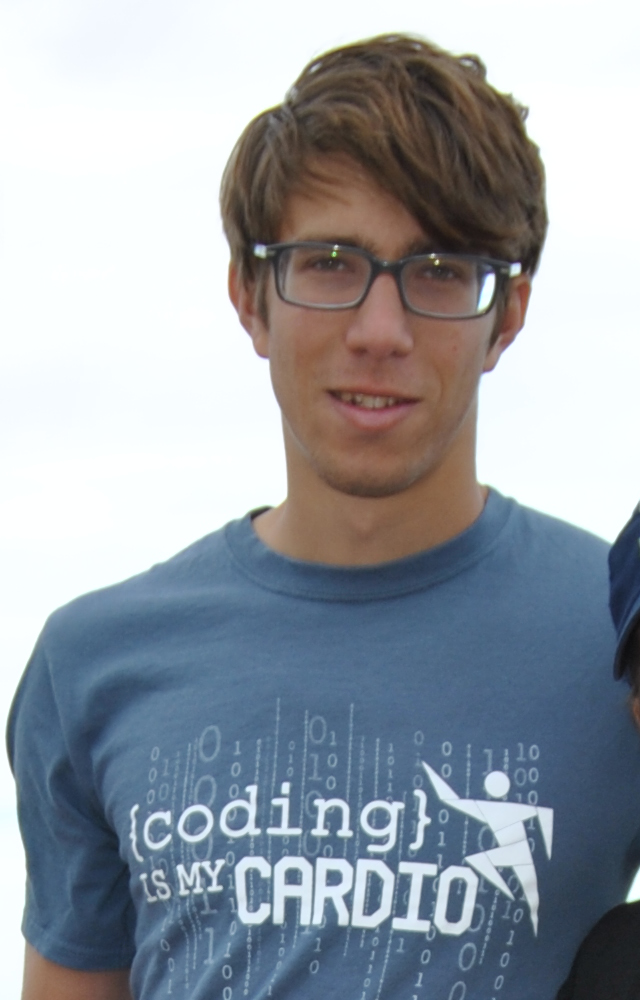
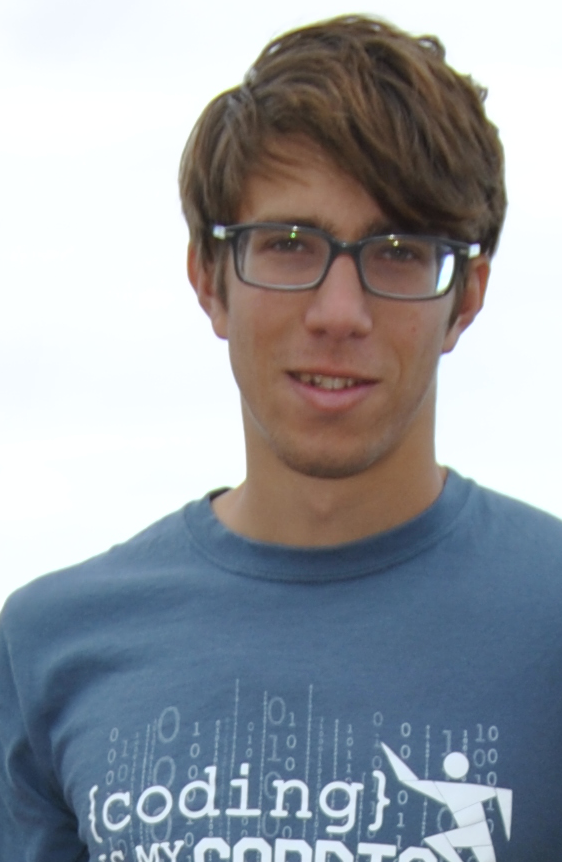
Bio updated + photo croped

diff --git a/bio.html b/bio.html
@@ -14,12 +14,12 @@
 	
 	<div class = "cadre">
 	<h2> Qui suis-je? </h2>
-	<p>Je suis n&eacute; le 9 avril 1998 &agrave; Montpellier (France). J'ai obtenu mon bac S euro Anglais en 2015 avec mention Tr&egrave;s Bien. J'ai ensuite fait une premi&egrave;re ann&eacute;e de pr&eacute;pa MPSI au lyc&eacute; Joffre. Enfin, je suis parti aux Etats-Unis en tant qu'athl&egrave;te universitaire. Je suis actuellement Sophomore (deuxi&egrave;me ann&eacute;e de bachelor) avec une major en Sciences Informatiques.</p>
+	<p>Je suis n&eacute; le 9 avril 1998 &agrave; Montpellier (France). Je suis rest&eacute; dans les environs jusque'&agrave; mes 18 ans. J'ai obtenu mon bac S euro Anglais en 2015 avec mention Tr&egrave;s Bien avant de faire une premi&egrave;re ann&eacute;e de pr&eacute;pa MPSI au lyc&eacute; Joffre. Enfin, je suis parti aux Etats-Unis en tant qu'athl&egrave;te universitaire. Je suis actuellement Sophomore (deuxi&egrave;me ann&eacute;e de bachelor) avec une major en Sciences Informatiques.</p>
 
 	<h2> Mes passions </h2>
 	<p> <div class = "video-container"> 
 	<iframe width="560" height="315" src="https://www.youtube.com/embed/videoseries?list=PLYSin3F9CFHkLVsJrBqv7k57uxZH5s6QX" frameborder="0" allow="autoplay; encrypted-media" allowfullscreen></iframe>
-	</div>Si vous avez fait attention sur la page d'accueil, vous aurez sans doute remarqu&eacute& que j'ai une cha&icirc;ne YouTube o&ugrave; je poste mes vid&eacute;os de football. Je suis en effet gardien de but, je joue aujourd'hui pour mon universit&eacute; de Colorado School of Mines. </p> 
+	</div>Si vous avez fait attention sur la page d'accueil, vous aurez sans doute remarqu&eacute; que j'ai une cha&icirc;ne YouTube o&ugrave; je poste mes vid&eacute;os de football. Je suis en effet gardien de but, je joue aujourd'hui pour mon universit&eacute; de Colorado School of Mines. </p> 
 	</div>
 
 <footer>

diff --git a/style.css b/style.css
@@ -36,6 +36,7 @@ a:visited {
 }
 
 .cadre{
+	position: relative;
 	width: 80%;
 	background-color: black;
 	color: #008000;
@@ -67,6 +68,7 @@ a:visited {
 
 .video-container {
 	position:relative;
+	float:right;
 	padding-bottom:56.25%;
 	padding-top:30px;
 	height:0;
